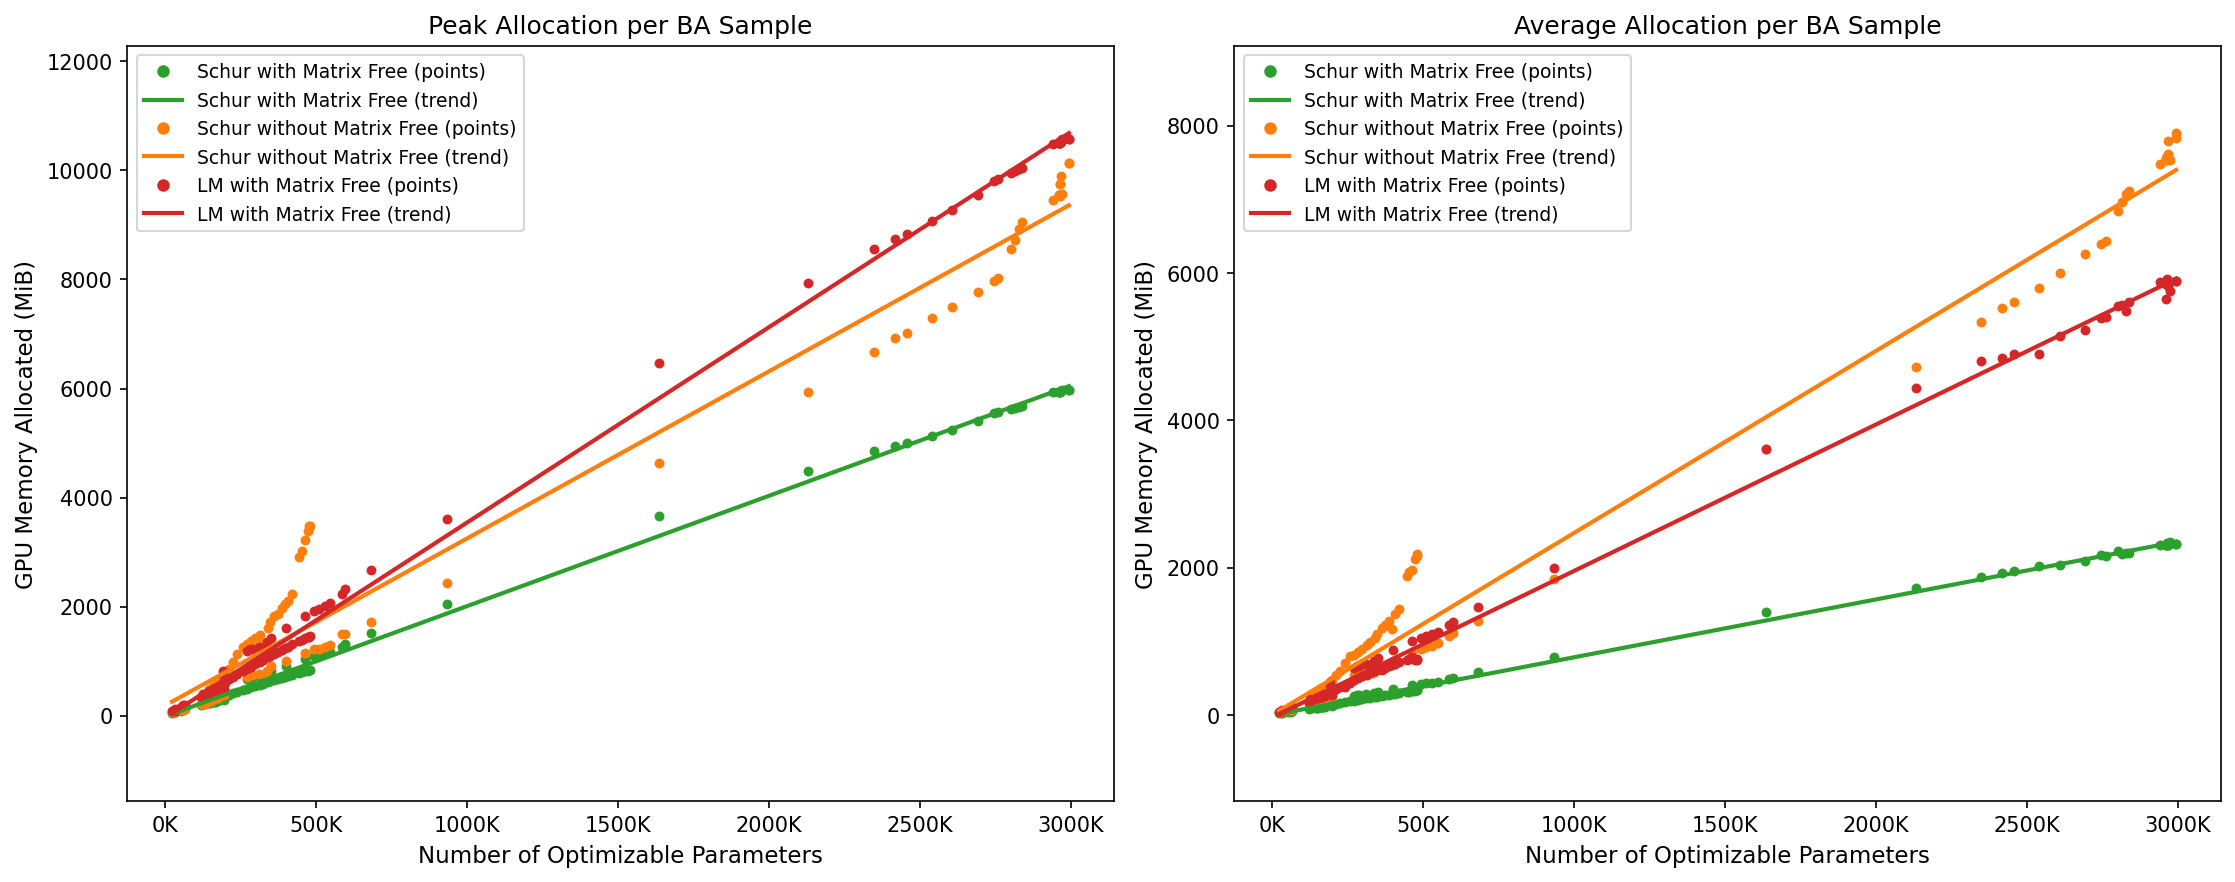
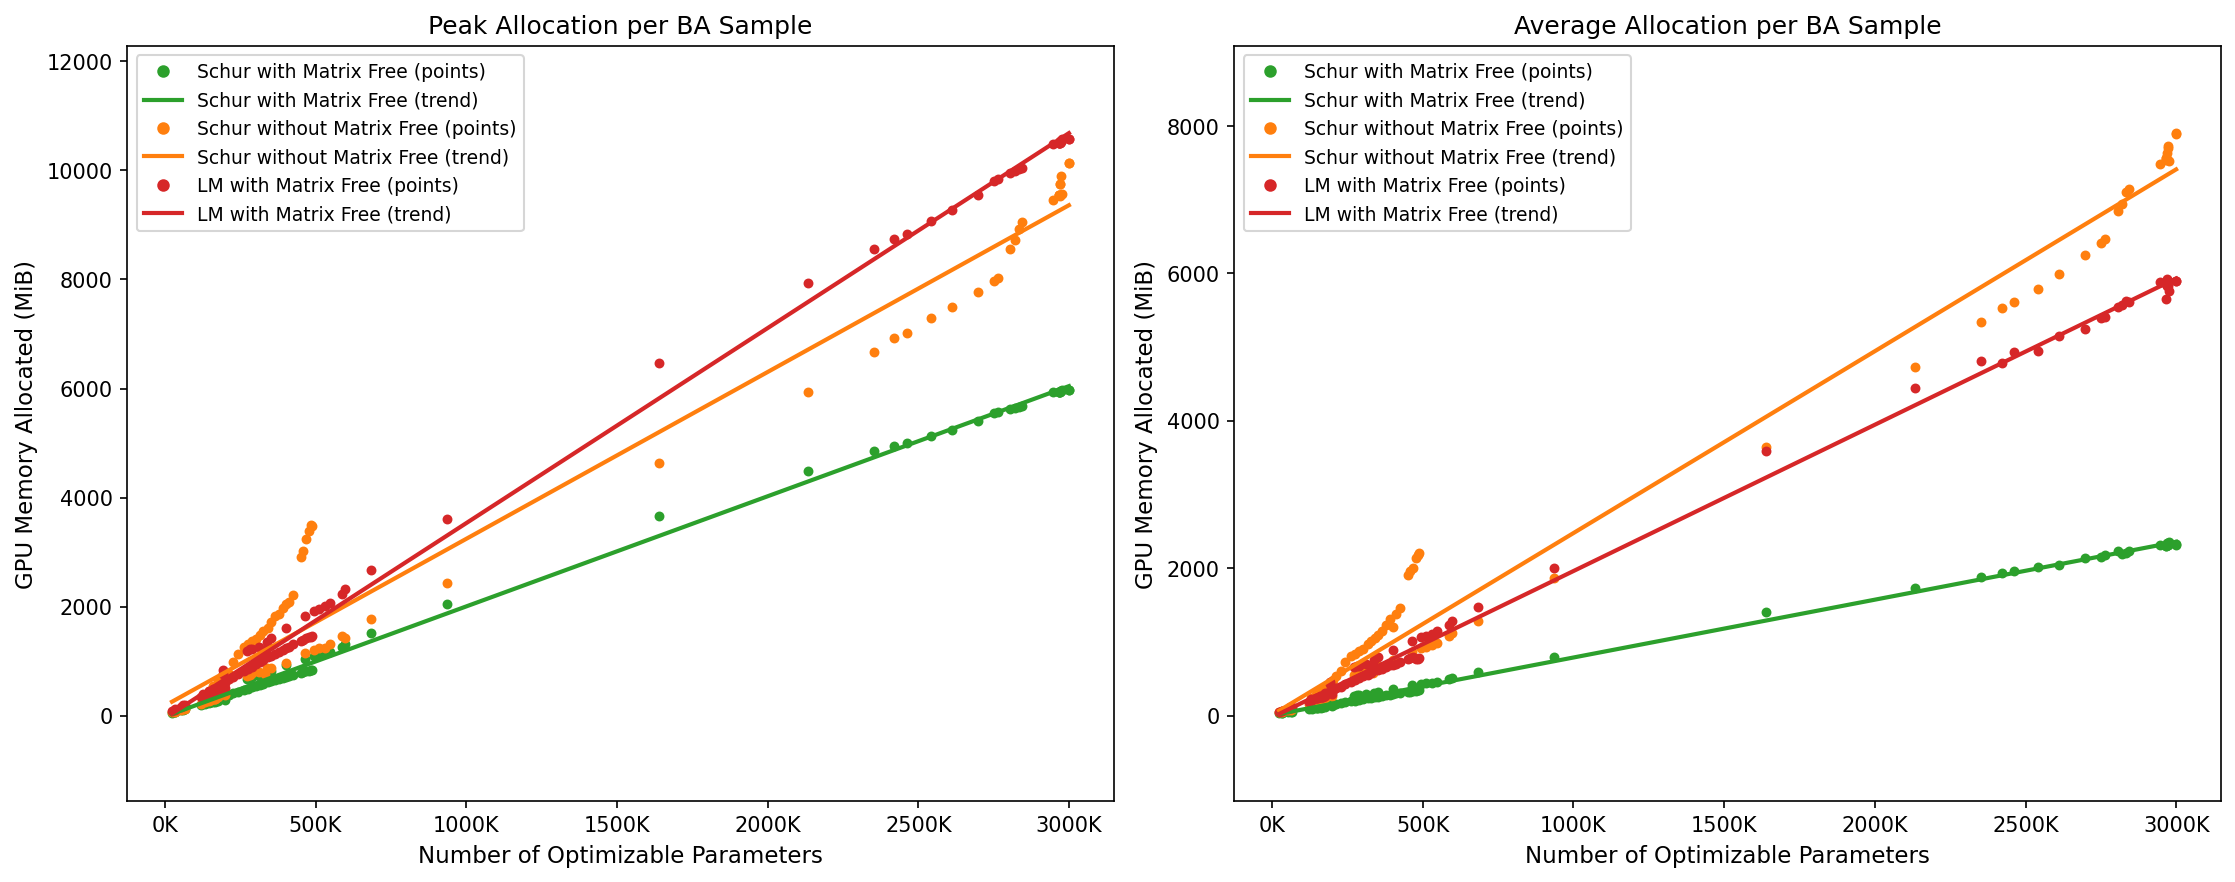
Replace the number of camera parameter from 7 to 10 with the corresponding markdown and the graph image

diff --git a/doc/memory_performance.md b/doc/memory_performance.md
@@ -75,9 +75,11 @@ explicitly built `JᵀJ` matrix for the matrix-free `NormalMatVec` operator.
 
 | Metric | Meaning |
 | --- | --- |
-| Number of parameters | The count of optimizable parameters: 3 per 3D point (xyz position) plus 7 per camera — i.e. 3 × (number of 3D points) + 7 × (number of cameras) |
+| Number of parameters | The x-axis count: 3 per 3D point (xyz position) plus 10 per camera (7 SE(3) pose + 3 intrinsics f, k1, k2) — i.e. 3 × (number of 3D points) + 10 × (number of cameras). With `OPTIMIZE_INTRINSICS = True` all 10 camera parameters are optimized, so `num_params` counts `NUM_CAMERA_PARAMS = 10` per camera. |
 | Peak GPU memory | The peak allocation in MiB — the max of the background sampler, `torch.cuda.max_memory_allocated`, and the Warp mempool high-water mark |
 | Average GPU memory | The mean allocation in MiB over the run, sampled every 5 ms |
+| Initial / final loss | Sum-of-squared-residuals loss (`model.loss`) before and after the 20 LM steps — a convergence sanity check (not plotted) |
+| Per-pixel loss | Final mean squared reprojection error per observation (`least_square_error`) = final loss ÷ number of observations |
 
 GPU memory is the sum of **PyTorch** allocations 
 and the **Warp** memory pool captured by a
@@ -97,7 +99,7 @@ The optimizer setup (shared by all conditions) is:
 - Solver: `PCG(tol=1e-4, maxiter=250)`
 - `reject=30`
 - Model: `Residual` from [`examples/schur.py`](../examples/schur.py), optimizing
-  camera params + 3D points. Intrinsics are included
+  camera params + 3D points (**3 per point**: xyz). Intrinsics are included
   (`OPTIMIZE_INTRINSICS = True` → 10 camera params per camera).
 
 This whole setup about the `TrustRegion` / `PCG` / `reject=30` configuration and the
@@ -129,7 +131,7 @@ optimizable parameters):
 | Schur, matrix-free | **~5.8 GiB** | **~2.3 GiB** |
 
 So **Schur with matrix-free** uses about **43% less peak** memory than the
-**LM (matrix-free)** baseline (~4.5 GiB less) and **~60% less average**. Notably,
+**LM (matrix-free)** baseline (~4.5 GiB less) and **~61% less average**. Notably,
 **Schur with the normal (materialized) path** has the *highest* average of the
 three — building `W`/`Wᵀ`/`S` explicitly keeps that memory occupied for the
 entire solve — so it is the **matrix-free** half that makes Schur pay off, not
@@ -147,7 +149,8 @@ Knobs near the top of the script:
 | `CONDITIONS` | 3 configs | Optimizer / matrix-free combinations to compare |
 | `DEVICE` | `"cuda"` | Compute device |
 | `NUM_ITERATIONS` | `20` | LM steps per run |
-| `OPTIMIZE_INTRINSICS` | `True` | Include camera intrinsics (10 vs 7 camera params) |
+| `OPTIMIZE_INTRINSICS` | `True` | Optimize the 3 camera intrinsics → `NUM_CAMERA_PARAMS = 10` (7 pose + 3 intrinsics) |
+| `POINT_PARAMS` | `3` | Parameters per 3D point (xyz position) |
 | `MEMORY_SAMPLE_INTERVAL_S` | `0.005` | Background memory sampling interval |
 
 ## Requirements
